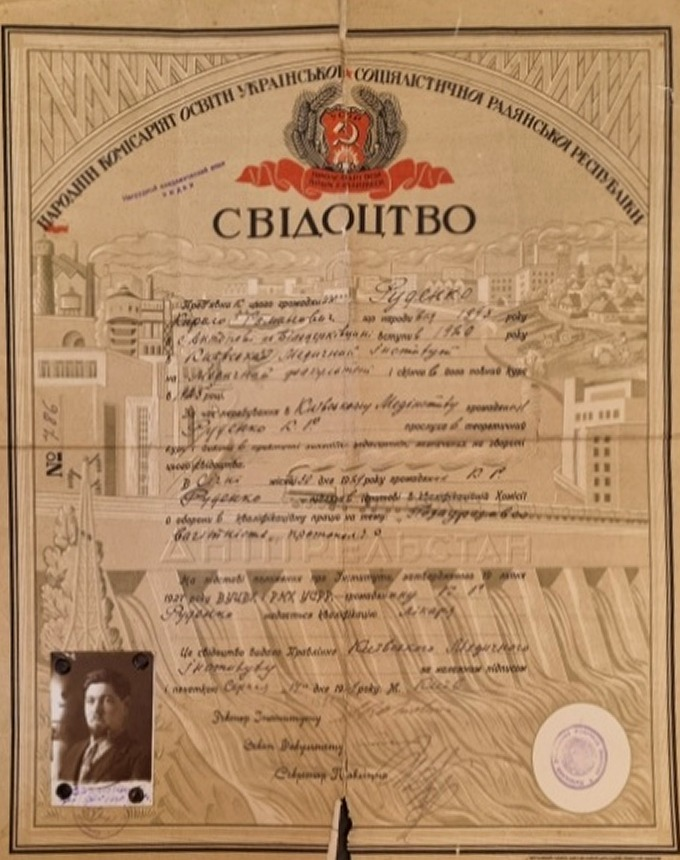
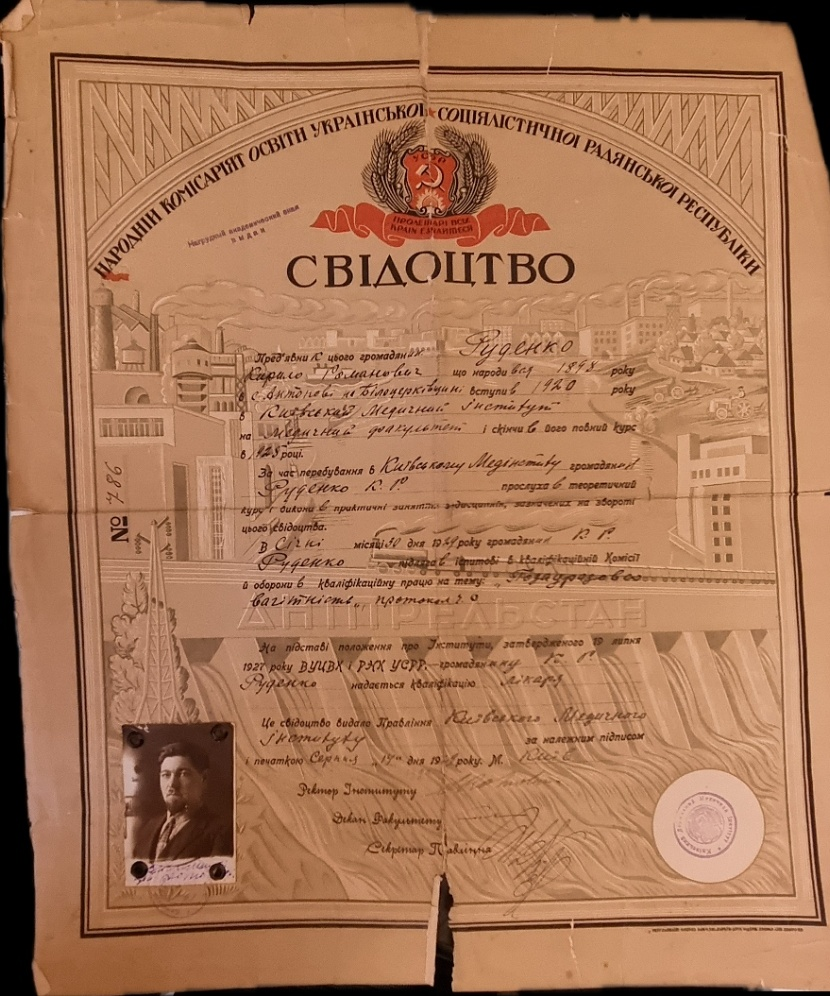
Update Kirill Rudenko 1929 diploma (high-res front + 46 subjects back) and AI-restored portrait

diff --git a/js/data.js b/js/data.js
@@ -314,12 +314,24 @@ const PEOPLE_DATA = {
     y: 600,
     generation: "IV покоління • Прадід-лікар та прабабуся Ольга Жигаловська",
     name: "Кирило Романович Руденко (1898 р.н.) та Ольга Василівна Жигаловська",
-    facts: "За Свідоцтвом (дипломом лікаря) № 786 НКО УСРР та маминою круговою картою: Кирило Романович Руденко народився у 1898 р. в с. Антонів на Білоцерківщині (Сквирський повіт Київської губ., парафія Благовіщенської церкви 1741 р.). В оцифрованому Першому Всеросійському переписі 1897 року по с. Антонів (ДАКО, ф. 384, оп. 10, спр. 43–46) прізвище православних козаків/селян Руденків уже зафіксоване та проіндексоване! У 1925 р. Кирило Романович закінчив Київський медінститут, одружився з Ольгою Василівною Жигаловською (донькою Василя Жигаловського з м. Кам'янець-Подільський), 25.02.1926 у Кам'янець-Подільській обл. у них народився син Роман Кирилович, а 30.01.1929 у Києві Кирило Романович захистив працю «Позаутробна вагітність».",
+    facts: "За Свідоцтвом (дипломом лікаря) № 786 НКО УСРР та маминою круговою картою: Кирило Романович Руденко народився у 1898 р. в с. Антонів на Білоцерківщині (Сквирський повіт Київської губ., парафія Благовіщенської церкви 1741 р.). В оцифрованому Першому Всеросійському переписі 1897 року по с. Антонів (ДАКО, ф. 384, оп. 10, спр. 43–46) прізвище православних козаків/селян Руденків уже зафіксоване та проіндексоване! У 1920–1925 рр. Кирило Романович навчався на медичному факультеті Київського медичного інституту (на звороті диплома перелічено всі 46 прослуханих теоретичних та клінічних дисциплін: від анатомії, хірургії, акушерсько-гінекологічної клініки, рентгенології та невідкладної допомоги до курсу «Українознавство»). Одружився з Ольгою Василівною Жигаловською (донькою Василя Жигаловського з м. Кам'янець-Подільський), 25.02.1926 у Кам'янець-Подільській обл. у них народився син Роман Кирилович, а 30.01.1929 у Києві Кирило Романович захистив кваліфікаційну працю на тему «Позаутробова вагітність» (протокол ч. 6; свідоцтво видане 17.08.1929 у м. Києві).",
     questions: [
       "Ким був прапрадід Василь Жигаловський у Кам'янці-Подільському і чи збереглося фото матері Ольги Василівни (позначка «ФОТО» на схемі)?"
     ],
-    photo: "assets/images/kirill_rudenko_photo.jpg?v=2",
-    docImage: "assets/images/1793310199826.jpeg"
+    photo: "assets/images/kirill_rudenko_photo.jpg?v=3",
+    docImage: "assets/images/1793310199826.jpeg?v=3",
+    extraDocs: [
+      {
+        img: "assets/images/kirill_diploma_back_subjects_1929.jpg?v=3",
+        title: "Зворот свідоцтва № 786: 46 медичних дисциплін у КМІ (1920–1925 рр.)",
+        desc: "Повний перелік 46 теоретичних і клінічних предметів, які Кирило Романович Руденко склав у Київському медичному інституті (включно з хірургічними, терапевтичними, акушерсько-гінекологічними клініками та українознавством)."
+      },
+      {
+        img: "assets/images/kirill_rudenko_ai_restored.jpg?v=3",
+        title: "Реконструйований портрет лікаря Кирила Романовича Руденка (1898 р.н.)",
+        desc: "Художня ШІ-реконструкція портрета прадіда Кирила Романовича Руденка за оригінальною фотокарткою з диплома Київського медичного інституту 1929 року."
+      }
+    ]
   },
 
   agafon_maria_monakov: {
@@ -590,7 +602,7 @@ const TIMELINE_EVENTS = [
     place: "с. Антонів, Білоцерківщина",
     desc: "Родина Руденків зафіксована у Першому Всеросійському переписі 1897 року по с. Антонів (ДАКО ф. 384, оп. 10). У 1898 році в родині Романа Кириловича Руденка-старшого народжується син Кирило Романович Руденко.",
     personId: "kirill_olga_rudenko",
-    img: "assets/images/kirill_rudenko_photo.jpg?v=2"
+    img: "assets/images/kirill_rudenko_ai_restored.jpg?v=3"
   },
   {
     year: "~1908",
@@ -616,11 +628,11 @@ const TIMELINE_EVENTS = [
     year: "1920–1929",
     era: "interwar",
     branch: "rudenko",
-    title: "Навчання Кирила Руденка у КМІ, народження дідуся Романа (1926) та диплом лікаря",
+    title: "Навчання Кирила Руденка у КМІ (46 дисциплін), народження дідуся Романа (1926) та диплом лікаря",
     place: "м. Київ ↔ Кам'янець-Подільська обл.",
-    desc: "У 1920–1925 рр. Кирило Романович Руденко навчається в Київському медичному інституті, одружується з Ольгою Василівною Жигаловською (з Кам'янця-Подільського). 25 лютого 1926 р. у Кам'янець-Подільській області народжується син Роман Кирилович Руденко. 30.01.1929 у Києві Кирило Романович захищає роботу «Позаутробна вагітність» (диплом № 786 від 17.08.1929).",
+    desc: "У 1920–1925 рр. Кирило Романович Руденко вивчає 46 медичних дисциплін у Київському медичному інституті, одружується з Ольгою Василівною Жигаловською (з Кам'янця-Подільського). 25 лютого 1926 р. у Кам'янець-Подільській області народжується син Роман Кирилович Руденко. 30.01.1929 у Києві Кирило Романович захищає роботу «Позаутробова вагітність» (диплом № 786 від 17.08.1929).",
     personId: "kirill_olga_rudenko",
-    img: "assets/images/1793310199826.jpeg"
+    img: "assets/images/1793310199826.jpeg?v=3"
   },
   {
     year: "07.09.1928",
@@ -763,9 +775,25 @@ const ARCHIVE_GALLERY_ITEMS = [
     id: "gal_kirill_1929",
     category: "rudenko_monakov",
     badge: "Київ / с. Антонів • 17.08.1929",
-    title: "Свідоцтво (диплом лікаря) № 786 Кирила Романовича Руденка (1898 р.н., с. Антонів)",
-    desc: "Документ Київського медичного інституту (1920–1925 рр.) з оригінальним фото прадіда-лікаря Кирила Романовича Руденка.",
-    img: "assets/images/1793310199826.jpeg"
+    title: "Свідоцтво (диплом лікаря) № 786 Кирила Романовича Руденка (1898 р.н., с. Антонів) — висока чіткість",
+    desc: "Лицьова сторона диплома Київського медичного інституту (1920–1925 рр.): чітко читається запис про народження у 1898 р. в с. Антонові на Білоцерківщині та захист праці «Позаутробова вагітність» 30.01.1929 р.",
+    img: "assets/images/1793310199826.jpeg?v=3"
+  },
+  {
+    id: "gal_kirill_back_1929",
+    category: "rudenko_monakov",
+    badge: "Зворот диплома КМІ • 1920–1925 рр.",
+    title: "Перелік 46 медичних дисциплін, які вивчав Кирило Романович Руденко у Київському медінституті",
+    desc: "Зворот свідоцтва № 786 з повним списком предметів (1–46): фізика, хемія, анатомія, гістологія, фармакологія, оперативна хірургія, акушерсько-гінекологічна клініка, рентгенологія, невідкладна допомога та українознавство.",
+    img: "assets/images/kirill_diploma_back_subjects_1929.jpg?v=3"
+  },
+  {
+    id: "gal_kirill_ai_portrait",
+    category: "rudenko_monakov",
+    badge: "Реконструкція портрета • 1929 р.",
+    title: "Відновлений портрет прадіда-лікаря Кирила Романовича Руденка (1898 р.н.)",
+    desc: "Детальна ШІ-реконструкція образу молодого лікаря Кирила Романовича Руденка на основі фотографії зі свідоцтва Київського медичного інституту 1929 року.",
+    img: "assets/images/kirill_rudenko_ai_restored.jpg?v=3"
   },
   {
     id: "gal_penza_1935",

diff --git a/index.html b/index.html
@@ -110,7 +110,7 @@
         </button>
         <button data-nav-tab="archive" class="nav-tab-btn px-3 py-1.5 rounded-lg text-xs font-medium text-slate-600 hover:text-slate-900 transition flex items-center gap-1.5">
           <i data-lucide="images" class="w-3.5 h-3.5"></i>
-          <span>Документи (10)</span>
+          <span>Документи (12)</span>
         </button>
         <button data-nav-tab="mystery" class="nav-tab-btn px-3 py-1.5 rounded-lg text-xs font-medium text-slate-600 hover:text-slate-900 transition flex items-center gap-1.5">
           <i data-lucide="book-open" class="w-3.5 h-3.5 text-amber-600"></i>
@@ -251,6 +251,9 @@
             <img id="sheetDocImg" src="" alt="Архівний документ" class="w-full max-h-48 object-contain rounded-xl bg-white border border-slate-200/70 p-1 cursor-pointer hover:opacity-95 transition" />
           </div>
 
+          <!-- Extra Documents / Back Side / AI Reconstructed Portrait -->
+          <div id="sheetExtraDocsBox" class="hidden space-y-2.5"></div>
+
           <!-- Biography / Facts -->
           <div>
             <div class="text-[11px] font-semibold uppercase tracking-wider text-slate-400 mb-1">Біографія та документальні факти</div>
@@ -352,10 +355,10 @@
             </p>
           </div>
           <div class="flex items-center gap-1.5 overflow-x-auto no-scrollbar py-1">
-            <button data-gal-filter="all" class="gal-filter-btn px-3.5 py-1.5 rounded-xl text-xs font-semibold bg-slate-900 text-white whitespace-nowrap transition">Усі (10)</button>
+            <button data-gal-filter="all" class="gal-filter-btn px-3.5 py-1.5 rounded-xl text-xs font-semibold bg-slate-900 text-white whitespace-nowrap transition">Усі (12)</button>
             <button data-gal-filter="dvinsk" class="gal-filter-btn px-3.5 py-1.5 rounded-xl text-xs font-medium bg-slate-100 text-slate-700 hover:bg-slate-200 whitespace-nowrap transition">Двінськ / Даугавпілс (4)</button>
             <button data-gal-filter="riga_sydney" class="gal-filter-btn px-3.5 py-1.5 rounded-xl text-xs font-medium bg-slate-100 text-slate-700 hover:bg-slate-200 whitespace-nowrap transition">Рига та Сидней (3)</button>
-            <button data-gal-filter="rudenko_monakov" class="gal-filter-btn px-3.5 py-1.5 rounded-xl text-xs font-medium bg-slate-100 text-slate-700 hover:bg-slate-200 whitespace-nowrap transition">Руденки • Монакови • Схема (3)</button>
+            <button data-gal-filter="rudenko_monakov" class="gal-filter-btn px-3.5 py-1.5 rounded-xl text-xs font-medium bg-slate-100 text-slate-700 hover:bg-slate-200 whitespace-nowrap transition">Руденки • Монакови • Схема (5)</button>
           </div>
         </div>
 
@@ -445,7 +448,7 @@
     <div id="lightboxCaption" class="text-center text-xs text-slate-300 max-w-4xl mx-auto bg-slate-900/90 px-4 py-2.5 rounded-2xl border border-slate-800 z-10 leading-relaxed"></div>
   </div>
 
-  <script src="js/data.js?v=2"></script>
-  <script src="js/app.js?v=2"></script>
+  <script src="js/data.js?v=3"></script>
+  <script src="js/app.js?v=3"></script>
 </body>
 </html>

diff --git a/js/app.js b/js/app.js
@@ -450,6 +450,34 @@ function selectPerson(personId, options = { center: true, openSheet: true }) {
     docBox.classList.add("hidden");
   }
 
+  // Extra Documents / Back Side / AI Reconstructed Portrait
+  const extraBox = document.getElementById("sheetExtraDocsBox");
+  if (extraBox) {
+    extraBox.innerHTML = "";
+    const extras = person.extraDocs || [];
+    if (extras.length > 0) {
+      extraBox.classList.remove("hidden");
+      extras.forEach(ex => {
+        const card = document.createElement("div");
+        card.className = "bg-slate-50 rounded-2xl p-3 border border-slate-200/80 space-y-2";
+        card.innerHTML = `
+          <div class="flex items-center justify-between gap-2">
+            <span class="text-xs font-semibold text-slate-800">${ex.title}</span>
+            <button type="button" class="text-[11px] font-semibold text-amber-700 hover:text-amber-900 whitespace-nowrap">🔍 На весь екран</button>
+          </div>
+          <img src="${ex.img}" alt="${ex.title}" class="w-full max-h-52 object-contain rounded-xl bg-white border border-slate-200/70 p-1 cursor-pointer hover:opacity-95 transition" />
+          <p class="text-[11.5px] text-slate-600 leading-relaxed">${ex.desc || ""}</p>
+        `;
+        const openEx = () => openLightbox(ex.img, ex.title, person.generation, ex.desc || person.facts);
+        card.querySelector("button")?.addEventListener("click", openEx);
+        card.querySelector("img")?.addEventListener("click", openEx);
+        extraBox.appendChild(card);
+      });
+    } else {
+      extraBox.classList.add("hidden");
+    }
+  }
+
   // Research Clues / Questions
   const cluesBox = document.getElementById("sheetCluesBox");
   const cluesList = document.getElementById("sheetCluesList");
